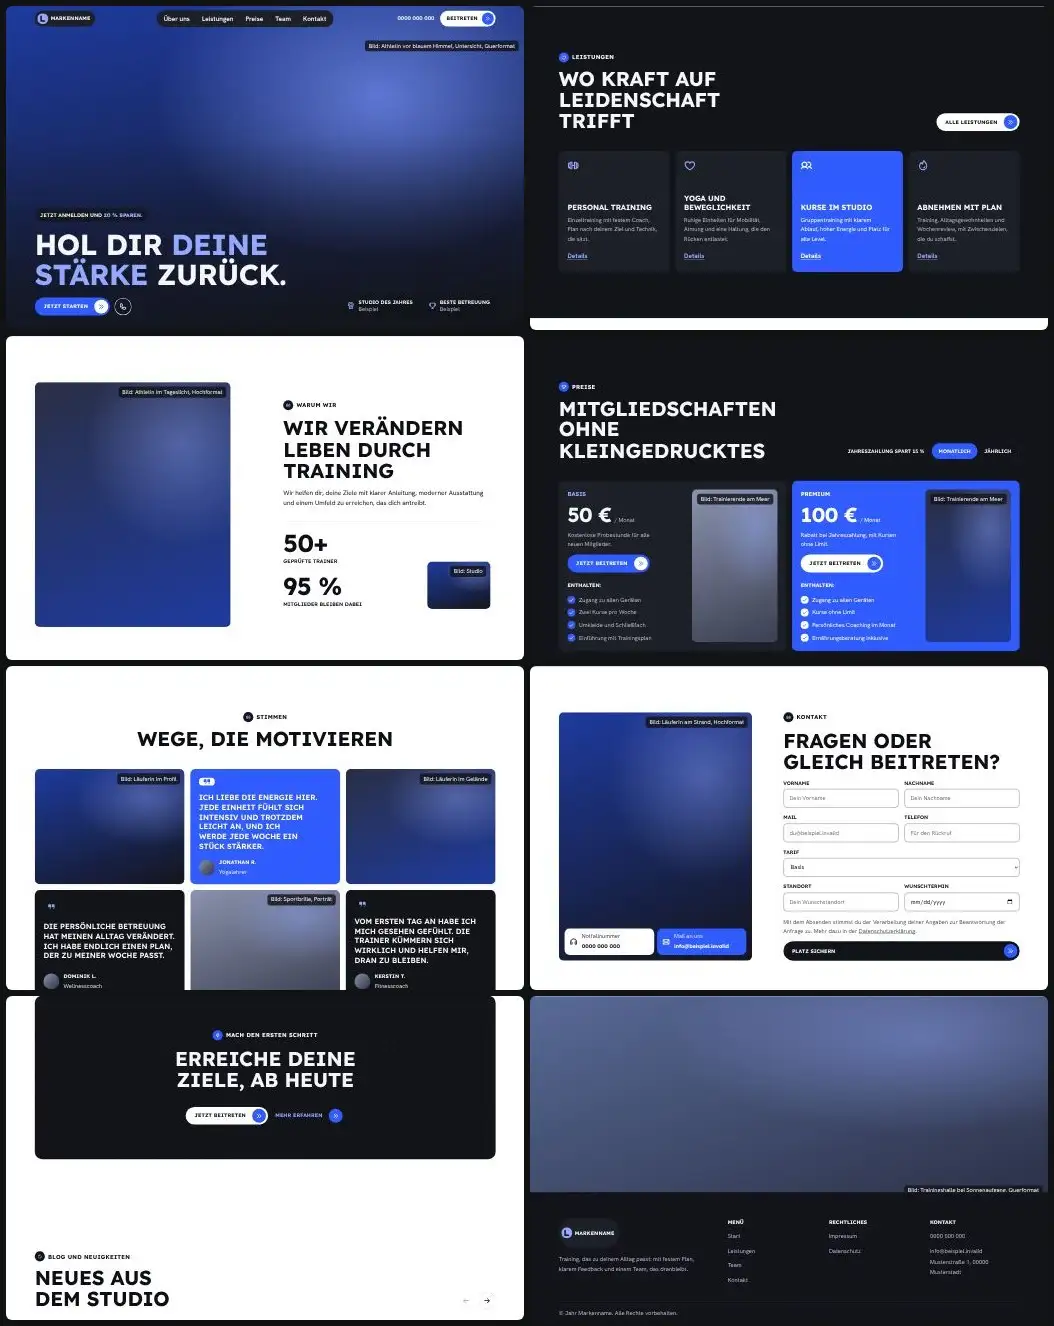
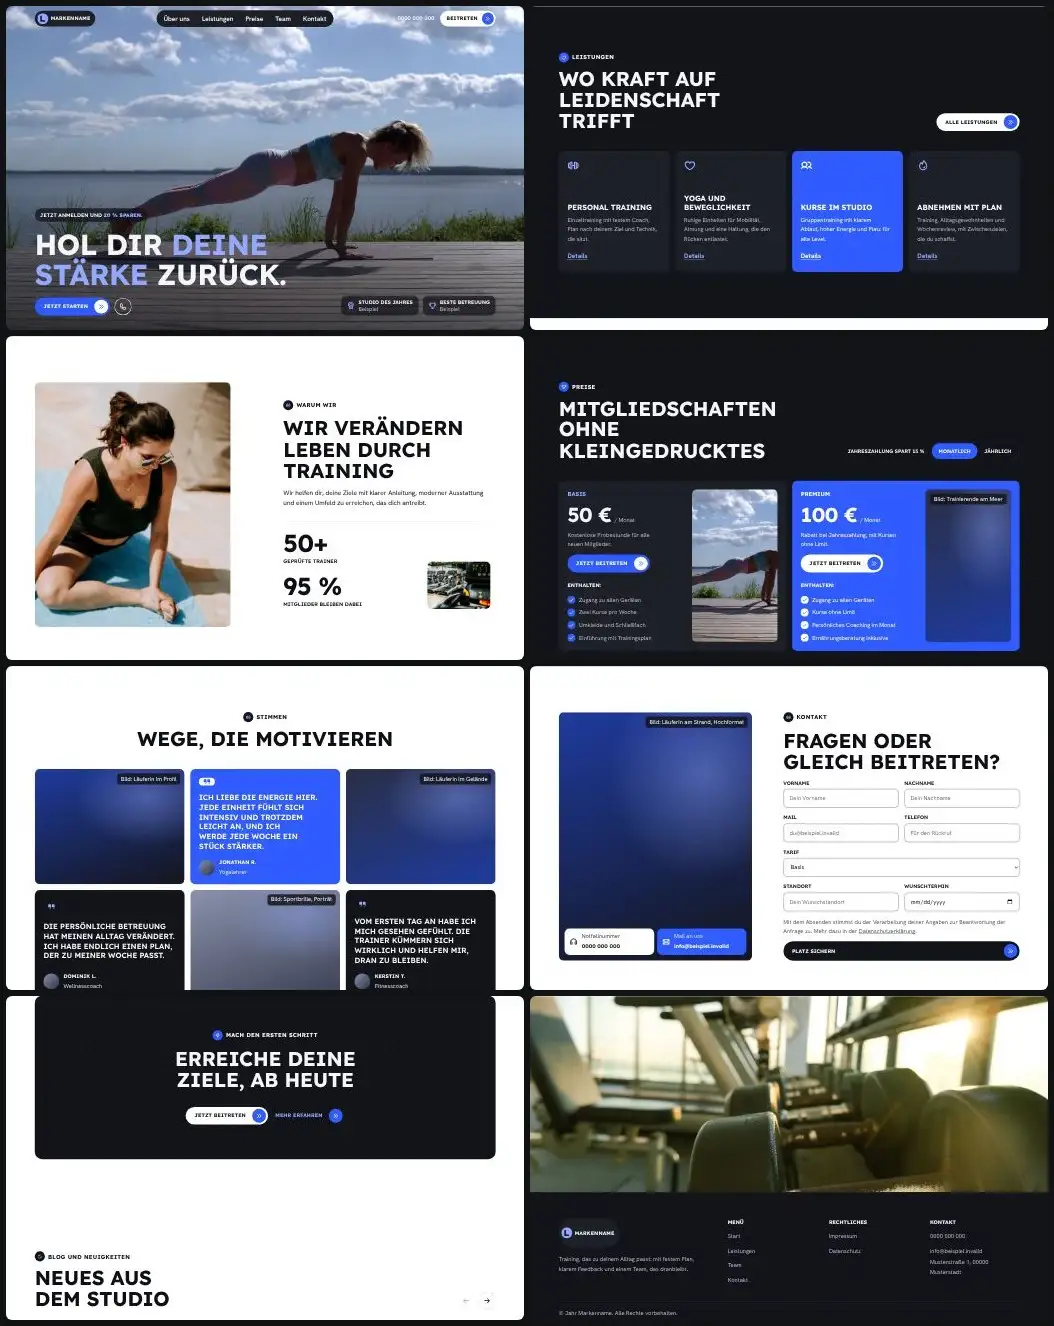
Bibliothek t56: Beispielfotos (Unsplash) eingebaut, Vorschaubilder neu erzeugt
Claude-Session: https://claude.ai/code/session_01DoGuL1bwF3ewggMgZ4Cpvd

diff --git a/skills/webdesign-conversion/assets/vorlagen/bibliothek/t56/index.html b/skills/webdesign-conversion/assets/vorlagen/bibliothek/t56/index.html
@@ -58,7 +58,7 @@
 <main id="inhalt">
   <!-- 1. Held: Vollbild, Text unten links, Siegel unten rechts -->
   <section class="held" id="top" aria-labelledby="h-held">
-    <div class="bild held__bild bild--a" data-platzhalter="Bild: Athletin vor blauem Himmel, Untersicht, Querformat" role="img" aria-label="Platzhalter für ein Foto einer Athletin an der Klimmzugstange vor blauem Himmel"></div>
+    <div class="bild held__bild bild--a"><img src="bilder/plank-am-see.webp" width="1600" height="1070" alt="Frau im Unterarmstütz auf einer Matte am See unter Wolkenhimmel" loading="lazy" decoding="async"></div>
     <div class="held__schleier" aria-hidden="true"></div>
     <div class="wrap held__innen">
       <div class="held__text" data-staffel>
@@ -75,14 +75,14 @@
     <div class="wrap">
       <header class="mitte"><p class="kicker " data-zeig><span class="kicker__icon" aria-hidden="true"><svg width="14" height="14" aria-hidden="true" focusable="false"><use href="#i-hantel"/></svg></span>Über uns</p><h2 id="h-ueber" data-zeig>Fitness ist mehr als Gewichte heben. Es geht ums Aufbauen.</h2></header>
       <div class="ueber__raster">
-        <div class="bild bild--b ueber__klein" data-platzhalter="Bild: Dehnung, Porträt" role="img" aria-label="Platzhalter für ein Foto einer Dehnübung" data-zeig></div>
+        <div class="bild bild--b ueber__klein" data-zeig><img src="bilder/dehnung-auf-matte.webp" width="1000" height="1499" alt="Frau dehnt sich auf einer Matte, Rückenansicht" loading="lazy" decoding="async"></div>
         <div class="ueber__mitte" data-staffel>
           <p class="grosszahl" data-zeig data-beispiel><span class="zahl"><span data-zaehle>15</span>+</span><span class="grosszahl__text">Jahre Erfahrung im Training</span></p>
           <p data-zeig>Wir verbinden moderne Trainingsmethoden, persönliche Pläne und eine Ausstattung, die auf Qualität setzt. Egal ob Kraft, Ausdauer oder Beweglichkeit: Du bekommst Betreuung, die zu dir passt.</p>
           <p data-zeig>Wir trainieren keine Körper, wir begleiten Menschen. Komm vorbei, probier aus und finde heraus, was dich trägt.</p>
           <div class="ueber__fuss" data-zeig><a class="knopf knopf--dunkel" href="#ueber"><span>Über uns</span><span class="knopf__kreis " aria-hidden="true"><svg width="18" height="18" aria-hidden="true" focusable="false"><use href="#i-doppel"/></svg></span></a><div class="bewertung" data-beispiel><span class="avatare" aria-hidden="true"><i class="avatar--1"></i><i class="avatar--2"></i><i class="avatar--3"></i></span><div><p class="bewertung__sterne" aria-label="Beispielwert: 4,9 von 5 Sternen"><svg width="16" height="16" aria-hidden="true" focusable="false"><use href="#i-stern"/></svg><svg width="16" height="16" aria-hidden="true" focusable="false"><use href="#i-stern"/></svg><svg width="16" height="16" aria-hidden="true" focusable="false"><use href="#i-stern"/></svg><svg width="16" height="16" aria-hidden="true" focusable="false"><use href="#i-stern"/></svg><svg width="16" height="16" aria-hidden="true" focusable="false"><use href="#i-stern"/></svg></p><p>1.000+ Bewertungen</p></div></div></div>
         </div>
-        <div class="bild bild--c ueber__gross" data-platzhalter="Bild: Athletin mit Trinkflasche, Hochformat" role="img" aria-label="Platzhalter für ein Foto einer Athletin mit Trinkflasche" data-zeig></div>
+        <div class="bild bild--c ueber__gross" data-zeig><img src="bilder/hund-uebung-matte.webp" width="1000" height="1500" alt="Frau macht eine Übung auf der Matte neben einem Trainingsgerät" loading="lazy" decoding="async"></div>
       </div>
     </div>
   </section>
@@ -101,14 +101,14 @@
   <!-- 4. Warum wir: Bild links, Text und Kennzahlen rechts -->
   <section class="sektion warum" id="warum" aria-labelledby="h-warum">
     <div class="wrap warum__raster">
-      <div class="bild bild--d warum__bild" data-platzhalter="Bild: Athletin im Tageslicht, Hochformat" role="img" aria-label="Platzhalter für ein Foto einer Athletin im Tageslicht" data-zeig data-parallax="0.04"></div>
+      <div class="bild bild--d warum__bild" data-zeig data-parallax="0.04"><img src="bilder/frau-auf-yogamatte.webp" width="1000" height="1499" alt="Frau dehnt sich auf einer blauen Yogamatte" loading="lazy" decoding="async"></div>
       <div class="warum__text" data-staffel>
         <p class="kicker " data-zeig><span class="kicker__icon" aria-hidden="true"><svg width="14" height="14" aria-hidden="true" focusable="false"><use href="#i-hantel"/></svg></span>Warum wir</p>
         <h2 id="h-warum" data-zeig>Wir verändern Leben durch Training</h2>
         <p data-zeig>Wir helfen dir, deine Ziele mit klarer Anleitung, moderner Ausstattung und einem Umfeld zu erreichen, das dich antreibt.</p>
         <div class="warum__zahlen" data-zeig data-beispiel>
           <dl><div><dt class="zahl"><span data-zaehle>50</span>+</dt><dd>Geprüfte Trainer</dd></div><div><dt class="zahl"><span data-zaehle>95</span> %</dt><dd>Mitglieder bleiben dabei</dd></div></dl>
-          <div class="bild bild--a warum__mini" data-platzhalter="Bild: Studio" aria-hidden="true"></div>
+          <div class="bild bild--a warum__mini"><img src="bilder/laufbaender-reihe.webp" width="800" height="533" alt="Reihe von Laufbändern im Fitnessstudio" loading="lazy" decoding="async"></div>
         </div>
       </div>
     </div>
@@ -146,7 +146,7 @@
             <p class="tarif__titel">Enthalten:</p>
             <ul class="tarif__liste"><li><span class="haken" aria-hidden="true"><svg width="14" height="14" aria-hidden="true" focusable="false"><use href="#i-haken"/></svg></span>Zugang zu allen Geräten</li><li><span class="haken" aria-hidden="true"><svg width="14" height="14" aria-hidden="true" focusable="false"><use href="#i-haken"/></svg></span>Zwei Kurse pro Woche</li><li><span class="haken" aria-hidden="true"><svg width="14" height="14" aria-hidden="true" focusable="false"><use href="#i-haken"/></svg></span>Umkleide und Schließfach</li><li><span class="haken" aria-hidden="true"><svg width="14" height="14" aria-hidden="true" focusable="false"><use href="#i-haken"/></svg></span>Einführung mit Trainingsplan</li></ul>
           </div>
-          <div class="bild bild--c tarif__bild" data-platzhalter="Bild: Trainierende am Meer" aria-hidden="true"></div>
+          <div class="bild bild--c tarif__bild"><img src="bilder/plank-am-see.webp" width="1600" height="1070" alt="Frau im Unterarmstütz auf einer Matte am See unter Wolkenhimmel" loading="lazy" decoding="async"></div>
         </li>
         <li class="tarif tarif--akzent" data-zeig>
           <div class="tarif__links">
@@ -241,7 +241,7 @@
 </main>
 
 <footer class="fuss" id="fuss">
-  <div class="fuss__bildwrap"><div class="bild fuss__bild bild--b" data-platzhalter="Bild: Trainingshalle bei Sonnenaufgang, Querformat" role="img" aria-label="Platzhalter für ein Foto der Trainingshalle bei Sonnenaufgang" data-parallax="0.05"></div></div>
+  <div class="fuss__bildwrap"><div class="bild fuss__bild bild--b" data-parallax="0.05"><img src="bilder/hanteln-sonnenlicht.webp" width="1600" height="901" alt="Reihe von Hanteln im Fitnessstudio mit Sonnenlicht" loading="lazy" decoding="async"></div></div>
   <div class="fuss__karte">
     <div class="wrap">
       <div class="fuss__oben">

diff --git a/skills/webdesign-conversion/assets/vorlagen/bibliothek/t56/v2.html b/skills/webdesign-conversion/assets/vorlagen/bibliothek/t56/v2.html
@@ -97,7 +97,7 @@
         <div><p class="kicker " data-zeig><span class="kicker__icon" aria-hidden="true"><svg width="14" height="14" aria-hidden="true" focusable="false"><use href="#i-herz"/></svg></span>Leistungen</p><h2 id="h-leistungen" data-zeig>Wir machen dich Schritt für Schritt stärker</h2></div>
         <div class="kopfzeile__rechts" data-zeig><a class="knopf knopf--dunkel" href="#beitreten"><span>Preise ansehen</span><span class="knopf__kreis " aria-hidden="true"><svg width="18" height="18" aria-hidden="true" focusable="false"><use href="#i-doppel"/></svg></span></a></div>
       </div>
-      <ul class="zeilen2" data-staffel data-beispiel><li data-zeig><a class="zeile2" href="#leistungen"><span class="zeile2__bild bild bild--c" data-platzhalter="Bild: Fettverbrennung" aria-hidden="true"></span><h3>Fettverbrennung</h3><p>Wenn aus Zielen Ergebnisse werden, bringt jede Einheit dich einen Schritt weiter. Unser Studio ist für Menschen gebaut.</p><span class="zeile2__pfeil" aria-hidden="true"><svg width="20" height="20" aria-hidden="true" focusable="false"><use href="#i-pfeil"/></svg></span></a></li><li data-zeig><a class="zeile2" href="#leistungen"><span class="zeile2__bild bild bild--a" data-platzhalter="Bild: Muskelaufbau" aria-hidden="true"></span><h3>Muskelaufbau</h3><p>Jede Einheit ist so gebaut, dass du dich danach stärker fühlst, mit Plan, Technik und genug Erholung.</p><span class="zeile2__pfeil" aria-hidden="true"><svg width="20" height="20" aria-hidden="true" focusable="false"><use href="#i-pfeil"/></svg></span></a></li><li data-zeig><a class="zeile2" href="#leistungen"><span class="zeile2__bild bild bild--b" data-platzhalter="Bild: Funktionelles Training" aria-hidden="true"></span><h3>Funktionelles Training</h3><p>Bewegung für den Alltag: Kraft, Ausdauer und Beweglichkeit in Einheiten, die Spaß machen.</p><span class="zeile2__pfeil" aria-hidden="true"><svg width="20" height="20" aria-hidden="true" focusable="false"><use href="#i-pfeil"/></svg></span></a></li><li data-zeig><a class="zeile2" href="#leistungen"><span class="zeile2__bild bild bild--d" data-platzhalter="Bild: Kraftdreikampf" aria-hidden="true"></span><h3>Kraftdreikampf</h3><p>Maximalkraft in Kniebeuge, Bankdrücken und Kreuzheben, mit Coach und Plan bis zum Wettkampf.</p><span class="zeile2__pfeil" aria-hidden="true"><svg width="20" height="20" aria-hidden="true" focusable="false"><use href="#i-pfeil"/></svg></span></a></li><li data-zeig><a class="zeile2" href="#leistungen"><span class="zeile2__bild bild bild--c" data-platzhalter="Bild: Yoga" aria-hidden="true"></span><h3>Yoga</h3><p>Ruhige Einheiten für Kraft, Beweglichkeit und Gelassenheit. Für alle Level, jede Woche.</p><span class="zeile2__pfeil" aria-hidden="true"><svg width="20" height="20" aria-hidden="true" focusable="false"><use href="#i-pfeil"/></svg></span></a></li></ul>
+      <ul class="zeilen2" data-staffel data-beispiel><li data-zeig><a class="zeile2" href="#leistungen"><span class="zeile2__bild bild bild--c"><img src="bilder/laufbaender-reihe.webp" width="800" height="533" alt="Reihe von Laufbändern im Fitnessstudio" loading="lazy" decoding="async"></span><h3>Fettverbrennung</h3><p>Wenn aus Zielen Ergebnisse werden, bringt jede Einheit dich einen Schritt weiter. Unser Studio ist für Menschen gebaut.</p><span class="zeile2__pfeil" aria-hidden="true"><svg width="20" height="20" aria-hidden="true" focusable="false"><use href="#i-pfeil"/></svg></span></a></li><li data-zeig><a class="zeile2" href="#leistungen"><span class="zeile2__bild bild bild--a"><img src="bilder/langhantel-fuesse-kunstrasen.webp" width="800" height="533" alt="Hände halten eine Langhantel, Füße auf Kunstrasen" loading="lazy" decoding="async"></span><h3>Muskelaufbau</h3><p>Jede Einheit ist so gebaut, dass du dich danach stärker fühlst, mit Plan, Technik und genug Erholung.</p><span class="zeile2__pfeil" aria-hidden="true"><svg width="20" height="20" aria-hidden="true" focusable="false"><use href="#i-pfeil"/></svg></span></a></li><li data-zeig><a class="zeile2" href="#leistungen"><span class="zeile2__bild bild bild--b"><img src="bilder/kniebeuge-kettlebell.webp" width="800" height="534" alt="Frau macht eine Kniebeuge mit einer Kettlebell" loading="lazy" decoding="async"></span><h3>Funktionelles Training</h3><p>Bewegung für den Alltag: Kraft, Ausdauer und Beweglichkeit in Einheiten, die Spaß machen.</p><span class="zeile2__pfeil" aria-hidden="true"><svg width="20" height="20" aria-hidden="true" focusable="false"><use href="#i-pfeil"/></svg></span></a></li><li data-zeig><a class="zeile2" href="#leistungen"><span class="zeile2__bild bild bild--d"><img src="bilder/kreuzheben-langhantel.webp" width="800" height="533" alt="Frau greift eine Langhantel zum Kreuzheben" loading="lazy" decoding="async"></span><h3>Kraftdreikampf</h3><p>Maximalkraft in Kniebeuge, Bankdrücken und Kreuzheben, mit Coach und Plan bis zum Wettkampf.</p><span class="zeile2__pfeil" aria-hidden="true"><svg width="20" height="20" aria-hidden="true" focusable="false"><use href="#i-pfeil"/></svg></span></a></li><li data-zeig><a class="zeile2" href="#leistungen"><span class="zeile2__bild bild bild--c" data-platzhalter="Bild: Yoga" aria-hidden="true"></span><h3>Yoga</h3><p>Ruhige Einheiten für Kraft, Beweglichkeit und Gelassenheit. Für alle Level, jede Woche.</p><span class="zeile2__pfeil" aria-hidden="true"><svg width="20" height="20" aria-hidden="true" focusable="false"><use href="#i-pfeil"/></svg></span></a></li></ul>
     </div>
   </section>
 

diff --git a/skills/webdesign-conversion/assets/vorlagen/bibliothek/t56/BILDER.md b/skills/webdesign-conversion/assets/vorlagen/bibliothek/t56/BILDER.md
@@ -1,0 +1,26 @@
+# Bilder t56
+
+Alle Fotos von Unsplash, abgerufen am 25.11.2026. Titel und Lizenz stehen so auf der Seite des Fotos (Titel von Unsplash automatisch vergeben), als Fotograf ist das Unsplash Profil angegeben, weil die Seite den Namen nur als Profillink zeigte. Lizenz ist jeweils die Unsplash Lizenz.
+
+| Datei | Platz | Foto Titel | Fotograf (Profil) | Seite | Lizenz | Abruf |
+|---|---|---|---|---|---|---|
+| plank-am-see.webp.webp | index: Hero, Tarif 1 (Trainierende am Meer) | Frau in blauem Sport-BH und blauen Jeansshorts | yogaminna8 | https://unsplash.com/photos/Mgx1oe2vlVY | Unsplash Lizenz | 25.11.2026 |
+| dehnung-auf-matte.webp.webp | index: Über uns klein (Dehnung) | Frau legt sich hin | anniespratt | https://unsplash.com/photos/Q6vClAWRqFY | Unsplash Lizenz | 25.11.2026 |
+| hund-uebung-matte.webp.webp | index: Über uns groß | Frau in schwarzem Sport-BH und blauer Jeans | lgnwvr | https://unsplash.com/photos/amgv9YUg-MA | Unsplash Lizenz | 25.11.2026 |
+| frau-auf-yogamatte.webp.webp | index: Warum, Athletin im Tageslicht | Frau macht Übungen auf blauer Yogamatte | anniespratt | https://unsplash.com/photos/ZPipF7_quQU | Unsplash Lizenz | 25.11.2026 |
+| laufbaender-reihe.webp.webp | index: Warum Studio; v2: Fettverbrennung | Laufbänder im Fitnessstudio | rdehamer | https://unsplash.com/photos/pCT8ag1o3nU | Unsplash Lizenz | 25.11.2026 |
+| hanteln-sonnenlicht.webp.webp | index: Fuß, Trainingshalle | eine Reihe von Trainingsgeräten in einem Fitnessstudio | silentlymine | https://unsplash.com/photos/Z6CqKIP_J18 | Unsplash Lizenz | 25.11.2026 |
+| langhantel-fuesse-kunstrasen.webp.webp | v2: Muskelaufbau | Person, die eine schwarze Metallstange hält | syinq | https://unsplash.com/photos/HPP1mAit-vs | Unsplash Lizenz | 25.11.2026 |
+| kniebeuge-kettlebell.webp.webp | v2: Funktionelles Training | Eine Frau mit einem Wasserkocher in einem Fitnessstudio | meaganstonephotography | https://unsplash.com/photos/r951FqxHTao | Unsplash Lizenz | 25.11.2026 |
+| kreuzheben-langhantel.webp.webp | v2: Kraftdreikampf | Eine Frau, die in einem Fitnessstudio eine Langhantel hebt | weareambitious | https://unsplash.com/photos/1PM_MY1zbF4 | Unsplash Lizenz | 25.11.2026 |
+
+## Hinweise
+
+* Der Hero in index zeigt eine Athletin am See; die Vorlage nennt blauen Himmel, Untersicht: das Foto ist seitlich, nicht von unten.
+* Unsplash Titel passen bei mehreren Dateien nicht zum Bild; maßgeblich ist der Alt Text.
+* Keine Vorher Nachher Bilder und keine Körperversprechen.
+
+## Offen
+
+* index: Vorher und Nachher, zweiter Tarif (Trainierende am Meer), Mosaik (Läuferin im Profil, im Gelände, Sportbrille), drei Coach Porträts, Läuferin am Strand, fünf Beitragsbilder (Plan, Ernährung, Erholung, Technik, Motivation)
+* v2: zwei breite Bilder (Athletin mit Tätowierung, beim Dehnen), Hero Athletin lacht, Bild im Bild, Yoga und weitere Zeilenbilder
